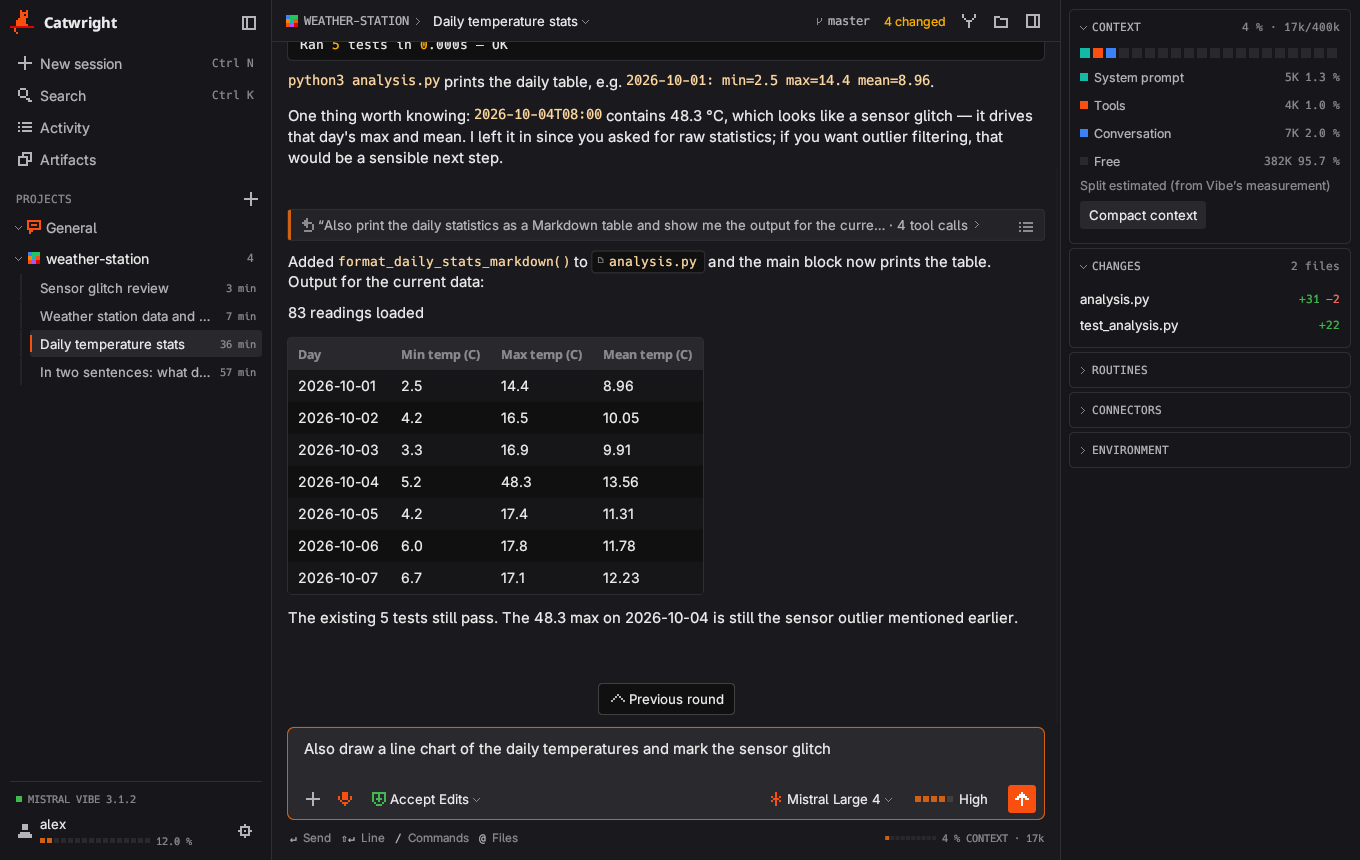
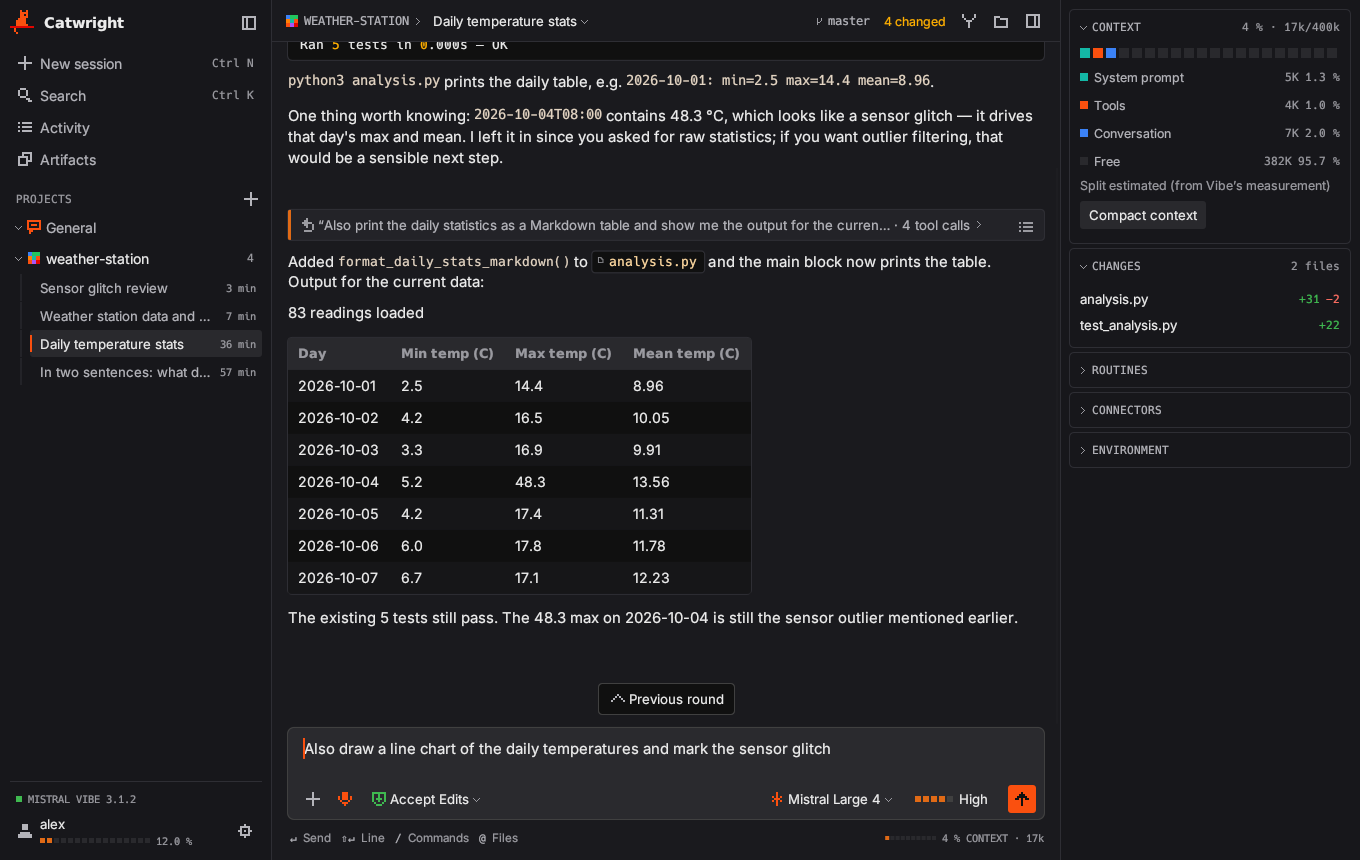
Calmer accent and better contrast in the UI
- Composer: focus is a quiet BORDER step instead of an orange ring; the
  send button carries the accent once there is text.
- Preview: Code/Diff is a segmented switch (widgets::segmented) with an
  orange underline instead of an orange-filled selectable label.
- Text selection and selectable labels use SELECTION (ORANGE at 35 %).
- "Send to Vibe" drops to Secondary while an approval or question waits,
  so the decision card holds the one Primary on screen.
- Inline code uses a calm warm tint; file chips keep the warmer one.
- Contrast: new ON_ACCENT ink for Primary buttons and the send button
  (5.6:1 on ORANGE), DIM #9a9aa0 and ORANGE_DIM #e06a16 (both >= 4.5:1).
- design.md, mockup tokens and README screenshots updated.

Claude-Session: https://claude.ai/code/session_01PuTwbbvQp52dyYtcHPreif

diff --git a/tools/mockups/common.css b/tools/mockups/common.css
@@ -1,8 +1,8 @@
 :root {
   --bg: #1a1a1e; --sidebar: #17171b; --card: #101010; --raised: #29292d;
   --input: #2a2a2e; --border: #404040; --border-soft: #2e2e34; --hover: #232328;
-  --text: #ececec; --muted: #b4b4ba; --dim: #8a8a8f; --orange: #fa500f;
-  --orange-dim: #ce6114; --yellow: #ffd800; --amber: #ffaf00; --red: #e10500;
+  --text: #ececec; --muted: #b4b4ba; --dim: #9a9aa0; --orange: #fa500f;
+  --orange-dim: #e06a16; --yellow: #ffd800; --amber: #ffaf00; --red: #e10500;
   --red-text: #ff6e62; --green: #3fb950; --add-bg: #12281a; --del-bg: #301514;
   --blue: #5b9cf8; --purple: #b07cf8; --code: #f2c46d;
   --mono: "DejaVu Sans Mono", monospace;

diff --git a/app/src/widgets.rs b/app/src/widgets.rs
@@ -317,7 +317,7 @@ pub enum ButtonKind {
 /// A text button in the pixel style.
 pub fn button(ui: &mut Ui, label: &str, kind: ButtonKind) -> Response {
     let (fill, text, stroke) = match kind {
-        ButtonKind::Primary => (theme::ORANGE, Color32::WHITE, Stroke::NONE),
+        ButtonKind::Primary => (theme::ORANGE, theme::ON_ACCENT, Stroke::NONE),
         ButtonKind::Secondary => (theme::RAISED, theme::TEXT, Stroke::NONE),
         ButtonKind::Danger => (
             Color32::TRANSPARENT,
@@ -405,6 +405,68 @@ pub fn badge(ui: &mut Ui, text: &str, color: Color32) -> Response {
         .rect_stroke(rect, 2.0, Stroke::new(1.0_f32, color.gamma_multiply(0.5)));
     ui.painter().galley(rect.min + vec2(4.0, 2.0), g, color);
     resp
+}
+
+/// A segmented switch between a few views (Code | Diff): one soft frame,
+/// the chosen segment RAISED with TEXT and a 2 pt ORANGE underline, the
+/// others DIM. A state, not an action, so it never takes the Primary fill.
+/// Returns the index of the segment clicked in this frame.
+pub fn segmented(ui: &mut Ui, labels: &[&str], selected: usize) -> Option<usize> {
+    const PAD_X: f32 = 9.0;
+    const HEIGHT: f32 = 24.0;
+    let galleys: Vec<Arc<Galley>> = labels
+        .iter()
+        .enumerate()
+        .map(|(i, label)| {
+            let color = if i == selected {
+                theme::TEXT
+            } else {
+                theme::DIM
+            };
+            line_galley(ui, label, font(12.5), color, 160.0)
+        })
+        .collect();
+    let width: f32 = galleys.iter().map(|g| g.size().x + 2.0 * PAD_X).sum();
+    let (rect, _) = ui.allocate_exact_size(vec2(width, HEIGHT), Sense::hover());
+    let mut clicked = None;
+    let mut x = rect.left();
+    for (i, g) in galleys.into_iter().enumerate() {
+        let seg = Rect::from_min_size(pos2(x, rect.top()), vec2(g.size().x + 2.0 * PAD_X, HEIGHT));
+        x = seg.right();
+        let resp = ui
+            .interact(seg, ui.id().with(("segmented", i)), Sense::click())
+            .on_hover_cursor(egui::CursorIcon::PointingHand);
+        let painter = ui.painter();
+        if i == selected {
+            painter.rect_filled(seg.shrink(1.0), 2.0, theme::RAISED);
+            painter.rect_filled(
+                Rect::from_min_max(
+                    pos2(seg.left() + 1.0, seg.bottom() - 3.0),
+                    seg.right_bottom() - vec2(1.0, 1.0),
+                ),
+                0.0,
+                theme::ORANGE,
+            );
+        } else if resp.hovered() {
+            painter.rect_filled(seg.shrink(1.0), 2.0, theme::HOVER);
+        }
+        let color = if i == selected {
+            theme::TEXT
+        } else {
+            theme::DIM
+        };
+        painter.galley(
+            pos2(seg.left() + PAD_X, seg.center().y - g.size().y / 2.0),
+            g,
+            color,
+        );
+        if resp.clicked() && i != selected {
+            clicked = Some(i);
+        }
+    }
+    ui.painter()
+        .rect_stroke(rect, 3.0, Stroke::new(1.0_f32, theme::BORDER_SOFT));
+    clicked
 }
 
 /// A pixel on/off switch. Returns the response; the caller flips the value.

diff --git a/app/src/harness/ui/artifacts.rs b/app/src/harness/ui/artifacts.rs
@@ -193,6 +193,10 @@ pub(super) fn preview_panel(h: &mut Harness, ctx: &egui::Context) {
     // else in the file's own parent — and only when THAT folder is trusted
     let git_dir = git_dir_for(&p.path, base.as_deref());
     let git_trusted = h.trust.get(&git_dir).is_some_and(|t| t.trusted);
+    let decision_open = h
+        .active
+        .as_deref()
+        .is_some_and(|sid| h.session_state(sid) == SessionState::Waiting);
     let out = egui::SidePanel::right("harness_preview")
         .resizable(true)
         .default_width(p.width)
@@ -220,17 +224,11 @@ pub(super) fn preview_panel(h: &mut Harness, ctx: &egui::Context) {
                         close = true;
                     }
                     ui.add_space(4.0);
-                    if ui
-                        .selectable_label(mode == PreviewMode::Diff, tr("Diff"))
-                        .clicked()
-                    {
-                        mode = PreviewMode::Diff;
-                    }
-                    if ui
-                        .selectable_label(mode == PreviewMode::Code, tr("Code"))
-                        .clicked()
-                    {
-                        mode = PreviewMode::Code;
+                    let current = usize::from(mode == PreviewMode::Diff);
+                    match widgets::segmented(ui, &[tr("Code"), tr("Diff")], current) {
+                        Some(0) => mode = PreviewMode::Code,
+                        Some(_) => mode = PreviewMode::Diff,
+                        None => {}
                     }
                 });
             });
@@ -270,8 +268,11 @@ pub(super) fn preview_panel(h: &mut Harness, ctx: &egui::Context) {
                         // review comments work here like in the transcript;
                         // the draft names the path as shown above
                         let key = format!("preview::{}", p.path);
-                        let mut comments =
-                            Comments::new(&mut h.ui.diff_comments, &mut h.ui.comment_edit);
+                        let mut comments = Comments::new(
+                            &mut h.ui.diff_comments,
+                            &mut h.ui.comment_edit,
+                            decision_open,
+                        );
                         // git scans (and so the diff's HEAD read) only run
                         // for folders the agent reported as trusted
                         diff_content(

diff --git a/app/src/theme.rs b/app/src/theme.rs
@@ -17,9 +17,18 @@ pub const HOVER: Color32 = Color32::from_rgb(0x23, 0x23, 0x28);
 pub const TEXT: Color32 = Color32::from_rgb(0xec, 0xec, 0xec);
 /// Secondary text that must stay comfortably readable.
 pub const MUTED: Color32 = Color32::from_rgb(0xb4, 0xb4, 0xba);
-pub const DIM: Color32 = Color32::from_rgb(0x8a, 0x8a, 0x8f);
+/// Tertiary text and mono labels: at least 4.5:1 on every surface up to
+/// RAISED (5.2:1 there).
+pub const DIM: Color32 = Color32::from_rgb(0x9a, 0x9a, 0xa0);
 pub const ORANGE: Color32 = Color32::from_rgb(0xfa, 0x50, 0x0f);
-pub const ORANGE_DIM: Color32 = Color32::from_rgb(0xce, 0x61, 0x14);
+/// Pixel meters and numbers shown as text (5.2:1 on BG).
+pub const ORANGE_DIM: Color32 = Color32::from_rgb(0xe0, 0x6a, 0x16);
+/// Text and icons on ORANGE, ORANGE_DIM, AMBER or YELLOW fills: white on
+/// ORANGE reaches only 3.4:1, this dark ink 5.6:1.
+pub const ON_ACCENT: Color32 = Color32::from_rgb(0x10, 0x10, 0x10);
+/// Background of selected text and selectable labels: ORANGE at 35 %, so
+/// TEXT on it stays readable and a selection does not shout like a button.
+pub const SELECTION: Color32 = Color32::from_rgba_premultiplied(0x58, 0x1c, 0x05, 0x59);
 pub const YELLOW: Color32 = Color32::from_rgb(0xff, 0xd8, 0x00);
 pub const AMBER: Color32 = Color32::from_rgb(0xff, 0xaf, 0x00);
 pub const RED: Color32 = Color32::from_rgb(0xe1, 0x05, 0x00);
@@ -127,7 +136,7 @@ pub fn apply(ctx: &egui::Context) {
         color: Color32::from_black_alpha(140),
     };
     visuals.popup_shadow = visuals.window_shadow;
-    visuals.selection.bg_fill = ORANGE;
+    visuals.selection.bg_fill = SELECTION;
     visuals.selection.stroke = Stroke::new(1.0_f32, TEXT);
     visuals.hyperlink_color = AMBER;
     visuals.text_cursor.stroke = Stroke::new(2.0_f32, ORANGE);
@@ -798,7 +807,7 @@ mod tests {
     fn apply_sets_tokens() {
         let ctx = egui::Context::default();
         apply(&ctx);
-        assert_eq!(ctx.style().visuals.selection.bg_fill, ORANGE);
+        assert_eq!(ctx.style().visuals.selection.bg_fill, SELECTION);
         assert_eq!(ctx.style().visuals.panel_fill, BG);
     }
 

diff --git a/app/src/render.rs b/app/src/render.rs
@@ -19,8 +19,11 @@ pub const CODE_BG: Color32 = crate::theme::CARD;
 pub const TEXT: Color32 = crate::theme::TEXT;
 pub const DIM: Color32 = crate::theme::DIM;
 pub const LINK: Color32 = crate::theme::AMBER;
-/// Inline code spans.
-const CODE_TEXT: Color32 = Color32::from_rgb(0xff, 0xd9, 0xa0);
+/// Inline code spans: a calm warm tint, so the monospace sets them apart
+/// without a function name becoming the loudest word of a sentence.
+const CODE_TEXT: Color32 = Color32::from_rgb(0xe3, 0xd4, 0xc2);
+/// File chips keep the warmer tint: they are the clickable ones.
+const CHIP_TEXT: Color32 = Color32::from_rgb(0xff, 0xd9, 0xa0);
 
 /// True only for link schemes we are willing to open from a model answer:
 /// http://, https:// and mailto: (case-insensitive, after trim). Everything
@@ -1422,7 +1425,7 @@ fn file_chip(ui: &mut egui::Ui, token: &str, path: &Path, size: f32, open: &mut 
         ui,
         token,
         egui::FontId::monospace(size - 2.0),
-        CODE_TEXT,
+        CHIP_TEXT,
         220.0,
     );
     let h = size + 6.0;
@@ -1660,7 +1663,7 @@ pub fn render_ui_node(
             let fill = if armed { crate::theme::AMBER } else { ACCENT };
             if ui
                 .add(
-                    egui::Button::new(RichText::new(text).color(Color32::WHITE))
+                    egui::Button::new(RichText::new(text).color(crate::theme::ON_ACCENT))
                         .fill(fill)
                         .rounding(egui::Rounding::same(3.0)),
                 )
@@ -1746,7 +1749,7 @@ pub fn render_ui_node(
                     let fill = if armed { crate::theme::AMBER } else { ACCENT };
                     if ui
                         .add(
-                            egui::Button::new(RichText::new(text).color(Color32::WHITE))
+                            egui::Button::new(RichText::new(text).color(crate::theme::ON_ACCENT))
                                 .fill(fill)
                                 .rounding(egui::Rounding::same(3.0)),
                         )

diff --git a/app/src/harness/ui/transcript.rs b/app/src/harness/ui/transcript.rs
@@ -266,6 +266,7 @@ fn render_items(
     let comments = &mut Comments {
         map: &mut h_ui.diff_comments,
         edit: &mut h_ui.comment_edit,
+        decision_open: has_question || !s.permissions.is_empty(),
     };
     let mut turn_ops: Vec<MessageOp> = Vec::new();
     let mut turn_changes = TurnChanges {
@@ -647,14 +648,22 @@ pub(crate) fn send_comments(h: &mut Harness, key: &str, path: &str) {
 pub(crate) struct Comments<'a> {
     map: &'a mut HashMap<String, Vec<DiffComment>>,
     edit: &'a mut Option<CommentEdit>,
+    /// The session waits for an approval or an answer: that card holds the
+    /// one Primary action on screen, so "Send to Vibe" steps back.
+    decision_open: bool,
 }
 
 impl<'a> Comments<'a> {
     pub(crate) fn new(
         map: &'a mut HashMap<String, Vec<DiffComment>>,
         edit: &'a mut Option<CommentEdit>,
+        decision_open: bool,
     ) -> Self {
-        Self { map, edit }
+        Self {
+            map,
+            edit,
+            decision_open,
+        }
     }
 }
 
@@ -1696,8 +1705,9 @@ pub(crate) fn comment_section(
         };
         ui.label(RichText::new(label).color(theme::DIM).size(12.0));
         // while the editor is open the primary action is the editor's own
-        // send; this one stays Secondary so a card never shows two primaries
-        let kind = if comments.edit.is_some() {
+        // send, and while an approval or a question waits that card's; this
+        // one stays Secondary then, so the screen never shows two primaries
+        let kind = if comments.edit.is_some() || comments.decision_open {
             ButtonKind::Secondary
         } else {
             ButtonKind::Primary

diff --git a/app/src/harness/ui/composer.rs b/app/src/harness/ui/composer.rs
@@ -181,10 +181,13 @@ pub(super) fn composer(h: &mut Harness, ui: &mut egui::Ui) {
             ui.input_mut(|i| !i.modifiers.shift && i.consume_key(Modifiers::NONE, Key::Enter));
     }
 
+    // typing anywhere lands here, so the composer is nearly always focused:
+    // a quiet step in the border instead of an accent ring; the accent
+    // belongs to the send button once there is something to send
     let stroke = Stroke::new(
         1.0_f32,
         if focused {
-            theme::ORANGE_DIM
+            theme::BORDER
         } else {
             theme::BORDER_SOFT
         },
@@ -406,7 +409,7 @@ fn toolbar(
                         .add(
                             IconButton::new(Icon::Send, tr("Queue (↵)"))
                                 .side(28.0)
-                                .color(egui::Color32::WHITE)
+                                .color(theme::ON_ACCENT)
                                 .fill(theme::ORANGE_DIM),
                         )
                         .clicked()
@@ -420,7 +423,7 @@ fn toolbar(
                     theme::RAISED
                 };
                 let color = if has_text {
-                    egui::Color32::WHITE
+                    theme::ON_ACCENT
                 } else {
                     theme::DIM
                 };

diff --git a/docs/design.md b/docs/design.md
@@ -20,9 +20,11 @@ agent desktop (sidebar, transcript, right panel).
 | `HOVER` | `#232328` | row under the pointer |
 | `TEXT` | `#ececec` | body text |
 | `MUTED` | `#b4b4ba` | secondary text that must stay comfortably readable |
-| `DIM` | `#8a8a8f` | tertiary text, mono labels |
+| `DIM` | `#9a9aa0` | tertiary text, mono labels (≥ 4.5:1 up to `RAISED`) |
 | `ORANGE` | `#fa500f` | primary accent: CTA buttons, active marks, logo |
-| `ORANGE_DIM` | `#ce6114` | pixel meters, numbers (context "1M", prices) |
+| `ON_ACCENT` | `#101010` | text and icons on `ORANGE`/`AMBER`/`YELLOW` fills (white on `ORANGE` is only 3.4:1) |
+| `SELECTION` | `ORANGE` at 35 % | selected text, selectable labels |
+| `ORANGE_DIM` | `#e06a16` | pixel meters, numbers (context "1M", prices), 5.2:1 on `BG` |
 | `YELLOW` | `#ffd800` | highlight tag (like "TRY IN PLAYGROUND"), focus |
 | `AMBER` | `#ffaf00` | gradient step |
 | `RED` | `#e10500` | error edges, deny outlines |
@@ -88,8 +90,15 @@ unreadable), body 14, conversation 14.5, mono labels 10.5–12.5. Nothing below
 - **Actions appear on hover** in rows and at messages and cost no layout space
   (`widgets::place`; `Ui::put` would move everything after the row).
   A menu that is open keeps its row in the hover state.
-- **Buttons**: `Primary` (ORANGE) once per card, `Secondary` (RAISED), `Danger`
-  (RED outline, `RED_TEXT`).
+- **Accent budget**: ORANGE marks the one thing to do or the place you are,
+  not every state. One filled Primary per screen while a decision waits:
+  while an approval or a question card is open, other Primary buttons (e.g.
+  "Send to Vibe") drop to Secondary.
+- **Buttons**: `Primary` (ORANGE with `ON_ACCENT` text) once per card,
+  `Secondary` (RAISED), `Danger` (RED outline, `RED_TEXT`).
+- **Segmented switch** (`widgets::segmented`, e.g. Code | Diff): a state, not
+  an action, so no Primary fill: soft frame, the chosen segment RAISED with
+  TEXT and a 2 pt ORANGE underline, the others DIM.
 - **Attention cards**: a card with a 2 pt coloured top edge asks for a decision.
 - **Toasts**: the status line as a toast below the header. Info fades after six
   seconds, errors stay until dismissed.
@@ -117,7 +126,12 @@ unreadable), body 14, conversation 14.5, mono labels 10.5–12.5. Nothing below
   digits for its first painted frames), message queue.
 - **Composer**: grows up to 220 pt, mode and "+" left, model and thinking right;
   `/` and `@` open keyboard-driven lists. Typing anywhere goes into it. Each
-  session keeps its own draft.
+  session keeps its own draft. Because it is nearly always focused, focus is
+  a quiet `BORDER` step, not an accent ring; the ORANGE belongs to the send
+  button once there is text.
+- **Inline code** in answers: monospace in a calm warm tint (`#e3d4c2`), so it
+  never outshouts the sentence; file chips keep the warmer `#ffd9a0` because
+  they are clickable.
 - **Right panel** (resizable, Strg J, hidden below 1120 pt): collapsible cards
   Kontext, Plan, Änderungen (accept / revert), Subagents, Routinen, Konnektoren,
   Umgebung. While it shows the plan, the conversation shows one plan line.

diff --git a/CHANGELOG.md b/CHANGELOG.md
@@ -14,6 +14,16 @@ tag (`## v0.2.0`) as that release's description.
   in the header ("Git off for this repository") and in the environment
   card, instead of the git info just disappearing. Its diff preview says
   so instead of showing the whole file as new.
+- Calmer accent: the composer no longer wears a permanent orange ring
+  (the send button carries the orange once there is text), the Code/Diff
+  switch of the preview is a segmented control instead of an orange
+  button, selected text gets a translucent orange, and inline code in
+  answers uses a calm tint instead of peach. While an approval or a
+  question waits, "Send to Vibe" steps back to a secondary button, so the
+  approval is the one orange button on screen.
+- Better contrast: Primary buttons and the send button use dark text on
+  orange (5.6:1 instead of 3.4:1), tertiary text and the orange numbers are
+  a little lighter (now at least 4.5:1).
 - Fixed: the worktree delete dialog's warning that changes could not be
   checked showed in English in every language.
 - Fixed: the "L12:" line label of review comments had no translation
